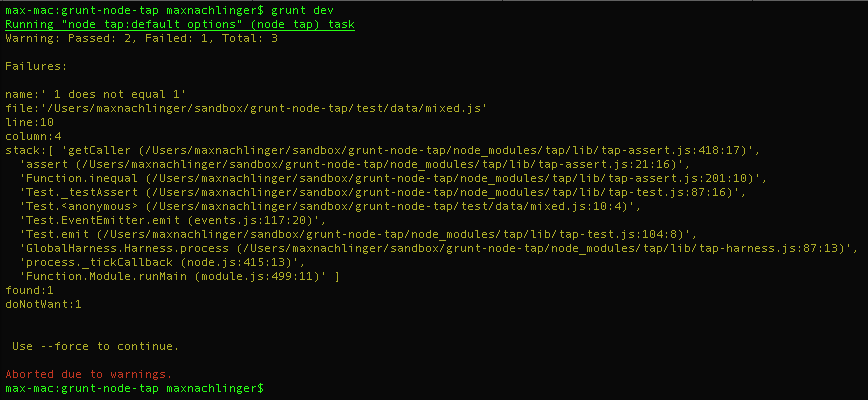
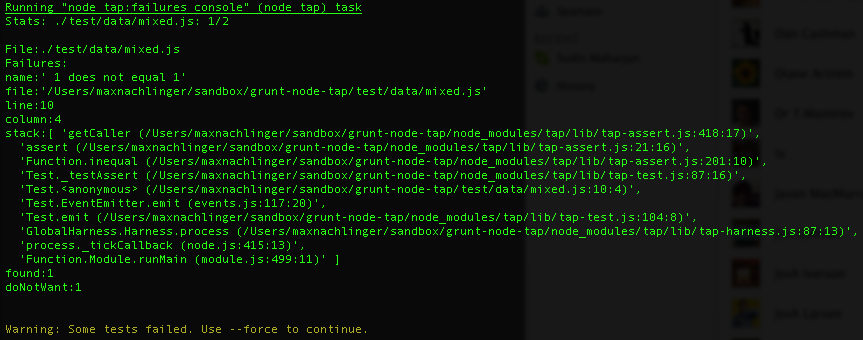
Renames for clarity. Updated documentation a bit.

diff --git a/tasks/node_tap.js b/tasks/node_tap.js
@@ -53,7 +53,7 @@ module.exports = function (grunt) {
 				proc.stdout.pipe(tapConsumer);
 				proc.stderr.pipe(process.stderr);
 
-				if (options.outputLevel === 'tap-stream')
+				if (options.outputType === 'tap')
 					proc.stdout.on('data', sendOutput);
 
 				proc.on('close', function () {
@@ -67,13 +67,13 @@ module.exports = function (grunt) {
 
 					var stats = statsToString(shortFile, tapConsumer.results);
 
-					if (~['stats', 'failures'].indexOf(options.outputLevel))
+					if (~['stats', 'failures'].indexOf(options.outputType))
 						sendOutput(stats);
 
 					if (tapConsumer.results.ok) return;
 					result.testsPassed = false;
 
-					if (options.outputLevel === 'failures') {
+					if (options.outputType === 'failures') {
 						var failedTests = _(tapConsumer.results.list).reject('ok').valueOf();
 						sendOutput(failuresToString(shortFile, failedTests));
 					}
@@ -111,10 +111,10 @@ module.exports = function (grunt) {
 		}
 
 		function checkOptions() {
-			var outputLevels = consts.outputLevels();
-			if (!~outputLevels.indexOf(options.outputLevel)) {
-				return grunt.fail.fatal(util.format("Invalid outputLevel option [%s] passed, valid outputLevel options " +
-					"are: [%s]", options.outputLevel, outputLevels.join(", ")), exitCodes.fatal);
+			var outputTypes = consts.outputTypes();
+			if (!~outputTypes.indexOf(options.outputType)) {
+				return grunt.fail.fatal(util.format("Invalid outputType option [%s] passed, valid outputType options " +
+					"are: [%s]", options.outputType, outputTypes.join(", ")), exitCodes.fatal);
 			}
 
 			var outputDests = consts.outputDestinations();

diff --git a/Gruntfile.js b/Gruntfile.js
@@ -17,45 +17,47 @@ module.exports = function (grunt) {
 		node_tap: {
 			failures_console: {
 				options: {
-					outputLevel: 'failures',
-					outputTo: 'console'
+					outputType: 'failures', // tap, failures, stats
+					outputTo: 'console' // or file
+					//outputFilePath: '/tmp/out.log' // path for output file, only makes sense with outputTo 'file'
 				},
 				files: {
-					'tests': ['./test/data/*.js']
+					'tests': ['./test/data/mixed.js']
 				}
 			},
 			stats_console: {
 				options: {
-					outputLevel: 'stats',
+					outputType: 'stats',
 					outputTo: 'console'
 				},
 				files: {
-					'tests': ['./test/data/*.js']
+					'tests': ['./test/data/mixed.js']
 				}
 			},
 			tap_stream_console: {
 				options: {
-					outputLevel: 'tap-stream',
+					outputType: 'tap',
 					outputTo: 'console'
 				},
 				files: {
-					'tests': ['./test/data/*.js']
+					'tests': ['./test/data/mixed.js']
 				}
 			},
 			tap_stream_file: {
 				options: {
-					outputLevel: 'tap-stream',
+					outputType: 'tap',
 					outputTo: 'file',
 					outputFilePath: '/tmp/out.log'
 				},
 				files: {
-					'tests': ['./test/data/*.js']
+					'tests': ['./test/data/mixed.js']
 				}
 			},
 			test: {
 				options: {
-					outputLevel: 'tap-stream', // failures, stats
-					outputTo: 'console' // or file path
+					outputType: 'tap', // tap, failures, stats
+					outputTo: 'console' // or file
+					//outputFilePath: '/tmp/out.log' // path for output file, only makes sense with outputTo 'file'
 				},
 				files: {
 					'tests': ['./test/data/*.js']

diff --git a/lib/consts.js b/lib/consts.js
@@ -2,8 +2,8 @@
 
 module.exports = function () {
 	return {
-		outputLevels: function () {
-			return ['stats', 'failures', 'tap-stream'];
+		outputTypes: function () {
+			return ['stats', 'failures', 'tap'];
 		},
 		outputDestinations: function () {
 			return ['console', 'file'];

diff --git a/test/nodeTapTests.js b/test/nodeTapTests.js
@@ -43,7 +43,7 @@ function givenFilePaths(paths, cb) {
 	grunt.initConfig({
 		node_tap: {
 			options: {
-				outputLevel: 'stats',
+				outputType: 'stats',
 				outputTo: 'console'
 			},
 			files: {

diff --git a/README.md b/README.md
@@ -18,13 +18,14 @@ grunt.loadNpmTasks('grunt-node-tap');
 grunt.initConfig({
     node_tap: {
       default_options: {
-        options: {
-          outputLevel: 'failures', // failures, stats, tap-stream,
-          outputTo: '/tmp/results.log' // console or file-path
-        },
-        files: {
-          'tests': ['./test/data/*.js']
-        }
+          options: {
+              outputType: 'failures', // tap, failures, stats
+              outputTo: 'console' // or file
+              //outputFilePath: '/tmp/out.log' // path for output file, only makes sense with outputTo 'file'
+          },
+          files: {
+              'tests': ['./test/data/*.js']
+          }
       }
     }
 })
@@ -32,23 +33,25 @@ grunt.initConfig({
 
 ### Options
 
-#### options.outputLevel
-Type: `String`
+#### options.outputType
+Specifies the type of output, the screenshots below might help.
 Default value: `'failures'`
-Allowable values: `'failures', 'stats', 'tap-stream'`
+Allowable values: `'failures', 'stats', 'tap'`
 
-A string value that is used to control the output. Here are some fun screen-shots.
-
-#### options.outputLevel: stats
+#### options.outputType: stats
 ![stats outputMode](https://raw.github.com/maxnachlinger/grunt-node-tap/master/doc/stats.png)
 
-#### options.outputLevel: failures
+#### options.outputType: failures
 ![failures outputMode](https://raw.github.com/maxnachlinger/grunt-node-tap/master/doc/failures.png)
 
-#### options.outputLevel: tap-stream
-![tap-stream outputMode](https://raw.github.com/maxnachlinger/grunt-node-tap/master/doc/tap.png)
+#### options.outputType: tap
+![tap outputMode](https://raw.github.com/maxnachlinger/grunt-node-tap/master/doc/tap.png)
 
 #### options.outputTo
-Type: `String`
+Where to write output. The console or a file.
 Default value: `'console'`
-Allowable values: `'console', 'some/path/toFile.log'`
+Allowable values: `'console', 'file'`
+
+#### options.outputFilePath
+Path to output file, only makes sense if `outputTo` is set to `'file'`
+Default value: `null`
